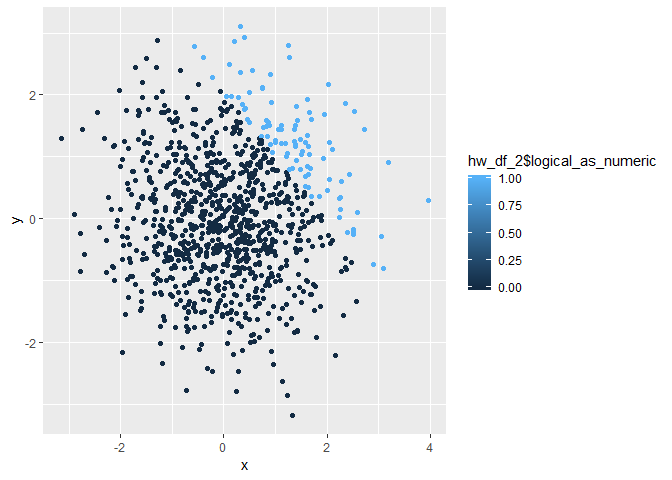
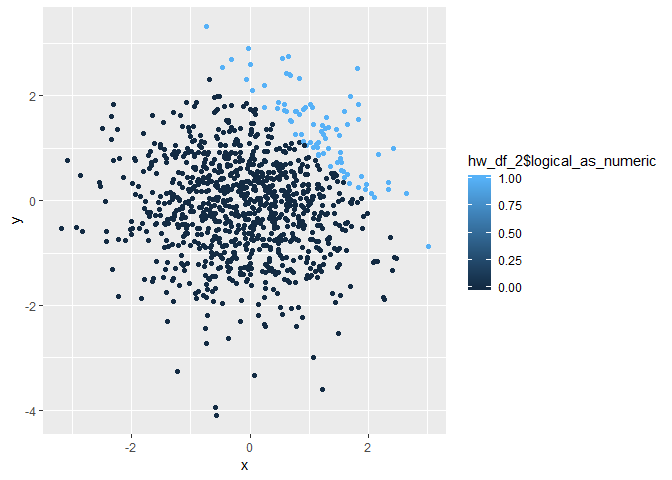
Finalized the project, made a few stylistic edits.

diff --git a/p8105_hw1_clc2229.md b/p8105_hw1_clc2229.md
@@ -14,6 +14,7 @@ Here is a code chunk that creates a dataframe with the following elements:
 -   a (length-10) factor vector
 
 ``` r
+## set up the data frame
 hw_df = tibble(
   random_sample_10 = runif(10, min = 0, max = 5),
   vec_logical_gt2 = random_sample_10 > 2,
@@ -25,18 +26,21 @@ hw_df = tibble(
 The following code chunk attempts to calculate the mean of each of the four elements in the dataframe, hw\_df:
 
 ``` r
+## take the mean of the random sample
 mean(hw_df$random_sample_10)
 ```
 
-    ## [1] 1.796034
+    ## [1] 2.072243
 
 ``` r
+## take the mean of the logical vector
 mean(hw_df$vec_logical_gt2)
 ```
 
     ## [1] 0.4
 
 ``` r
+## take the mean of the character vector
 mean(hw_df$vec_char_10)
 ```
 
@@ -46,6 +50,7 @@ mean(hw_df$vec_char_10)
     ## [1] NA
 
 ``` r
+## take the mean of the factor vector
 mean(hw_df$vec_factor_10)
 ```
 
@@ -54,15 +59,20 @@ mean(hw_df$vec_factor_10)
 
     ## [1] NA
 
-The output of the above code chunk shows that we are able to calculate a mean of approximately 1.8 and 0.4 for the **random sample** and the **logical vector**, respectively.
+The output of the above code chunk shows that we are able to calculate a mean of approximately 2.07 and 0.4 for the **random sample** and the **logical vector**, respectively.
 
 However, we are *not* able to calculate the mean of the **character vector** and the **factor vector**. The associated error message explains that this is because the mean() function requires numeric or logical arguments. Since the character vector and factor vector are neither numeric nor logical, the mean() function returns NA for these two vectors.
 
 The following code chunk shows how we can attempt to calculate the means of the logical, character, and factor vectors by treating them as numeric types.
 
 ``` r
+## convert logical to numeric and take the mean
 mean(as.numeric(hw_df$vec_logical_gt2))
+
+## convert character to numeric and take the mean
 mean(as.numeric(hw_df$vec_char_10))
+
+## convert factor to numeric and take the mean
 mean(as.numeric(hw_df$vec_factor_10))
 ```
 
@@ -70,15 +80,17 @@ The output of the above code chunk shows that the mean of the logical vector is 
 
 However, we are still *unsuccessful* in our attempt to calculate the mean of the character vector because treating the character vector as numeric results in NA.
 
-The following code chunk shows what happens when we try calculate the mean after performing the following conversions: character to factor to numeric and factor to character to numeric.
+The following code chunk shows what happens when we try to calculate the mean after performing the following conversions: character to factor to numeric and factor to character to numeric.
 
 ``` r
+## convert character to factor to numeric and take the mean
 mean(as.numeric(as.factor(hw_df$vec_char_10)))
 ```
 
     ## [1] 4.6
 
 ``` r
+## convert factor to character to numeric and take the mean
 mean(as.numeric(as.character(hw_df$vec_factor_10)))
 ```
 
@@ -101,6 +113,7 @@ The following code chunk creates a dataframe with the following elements:
 -   a factor vector created by coercing the above logical vector
 
 ``` r
+## set up data frame
 hw_df_2 = tibble(
   x = rnorm(1000),
   y = rnorm(1000),
@@ -110,7 +123,7 @@ hw_df_2 = tibble(
 )
 ```
 
-The dataframe created by the above code chunk has a size of: rows = 1000, columns = 5. The mean of x is 0.03. The median of x is 0.03. The proportion of cases for which the logical vector is TRUE is 0.097.
+The dataframe created by the above code chunk has a size of: rows = 1000, columns = 5. The mean of x is -0.03. The median of x is -0.02. The proportion of cases for which the logical vector is TRUE is 0.081.
 
 The following code chunk creates a 3 different scatter plots: \* one colored using the logical vector \* one colored using the logical vector that has been treated as numeric \* one colored using the logical vector that has been treated as a factor
 
@@ -140,3 +153,5 @@ ggplot(hw_df_2, aes(x = x, y = y, color = hw_df_2$logical_as_factor)) + geom_poi
 ```
 
 ![](p8105_hw1_clc2229_files/figure-markdown_github/scatterplot%20chunk-3.png)
+
+The above scatter plots show how the color scales differ depending on the properties of the variables used in the color statement. Specifically, since the logical and factor vectors have discrete values, there are discrete color codes. On the other hand, using a numeric variables results in a gradient of colors because a numeric variable can be continuous.
